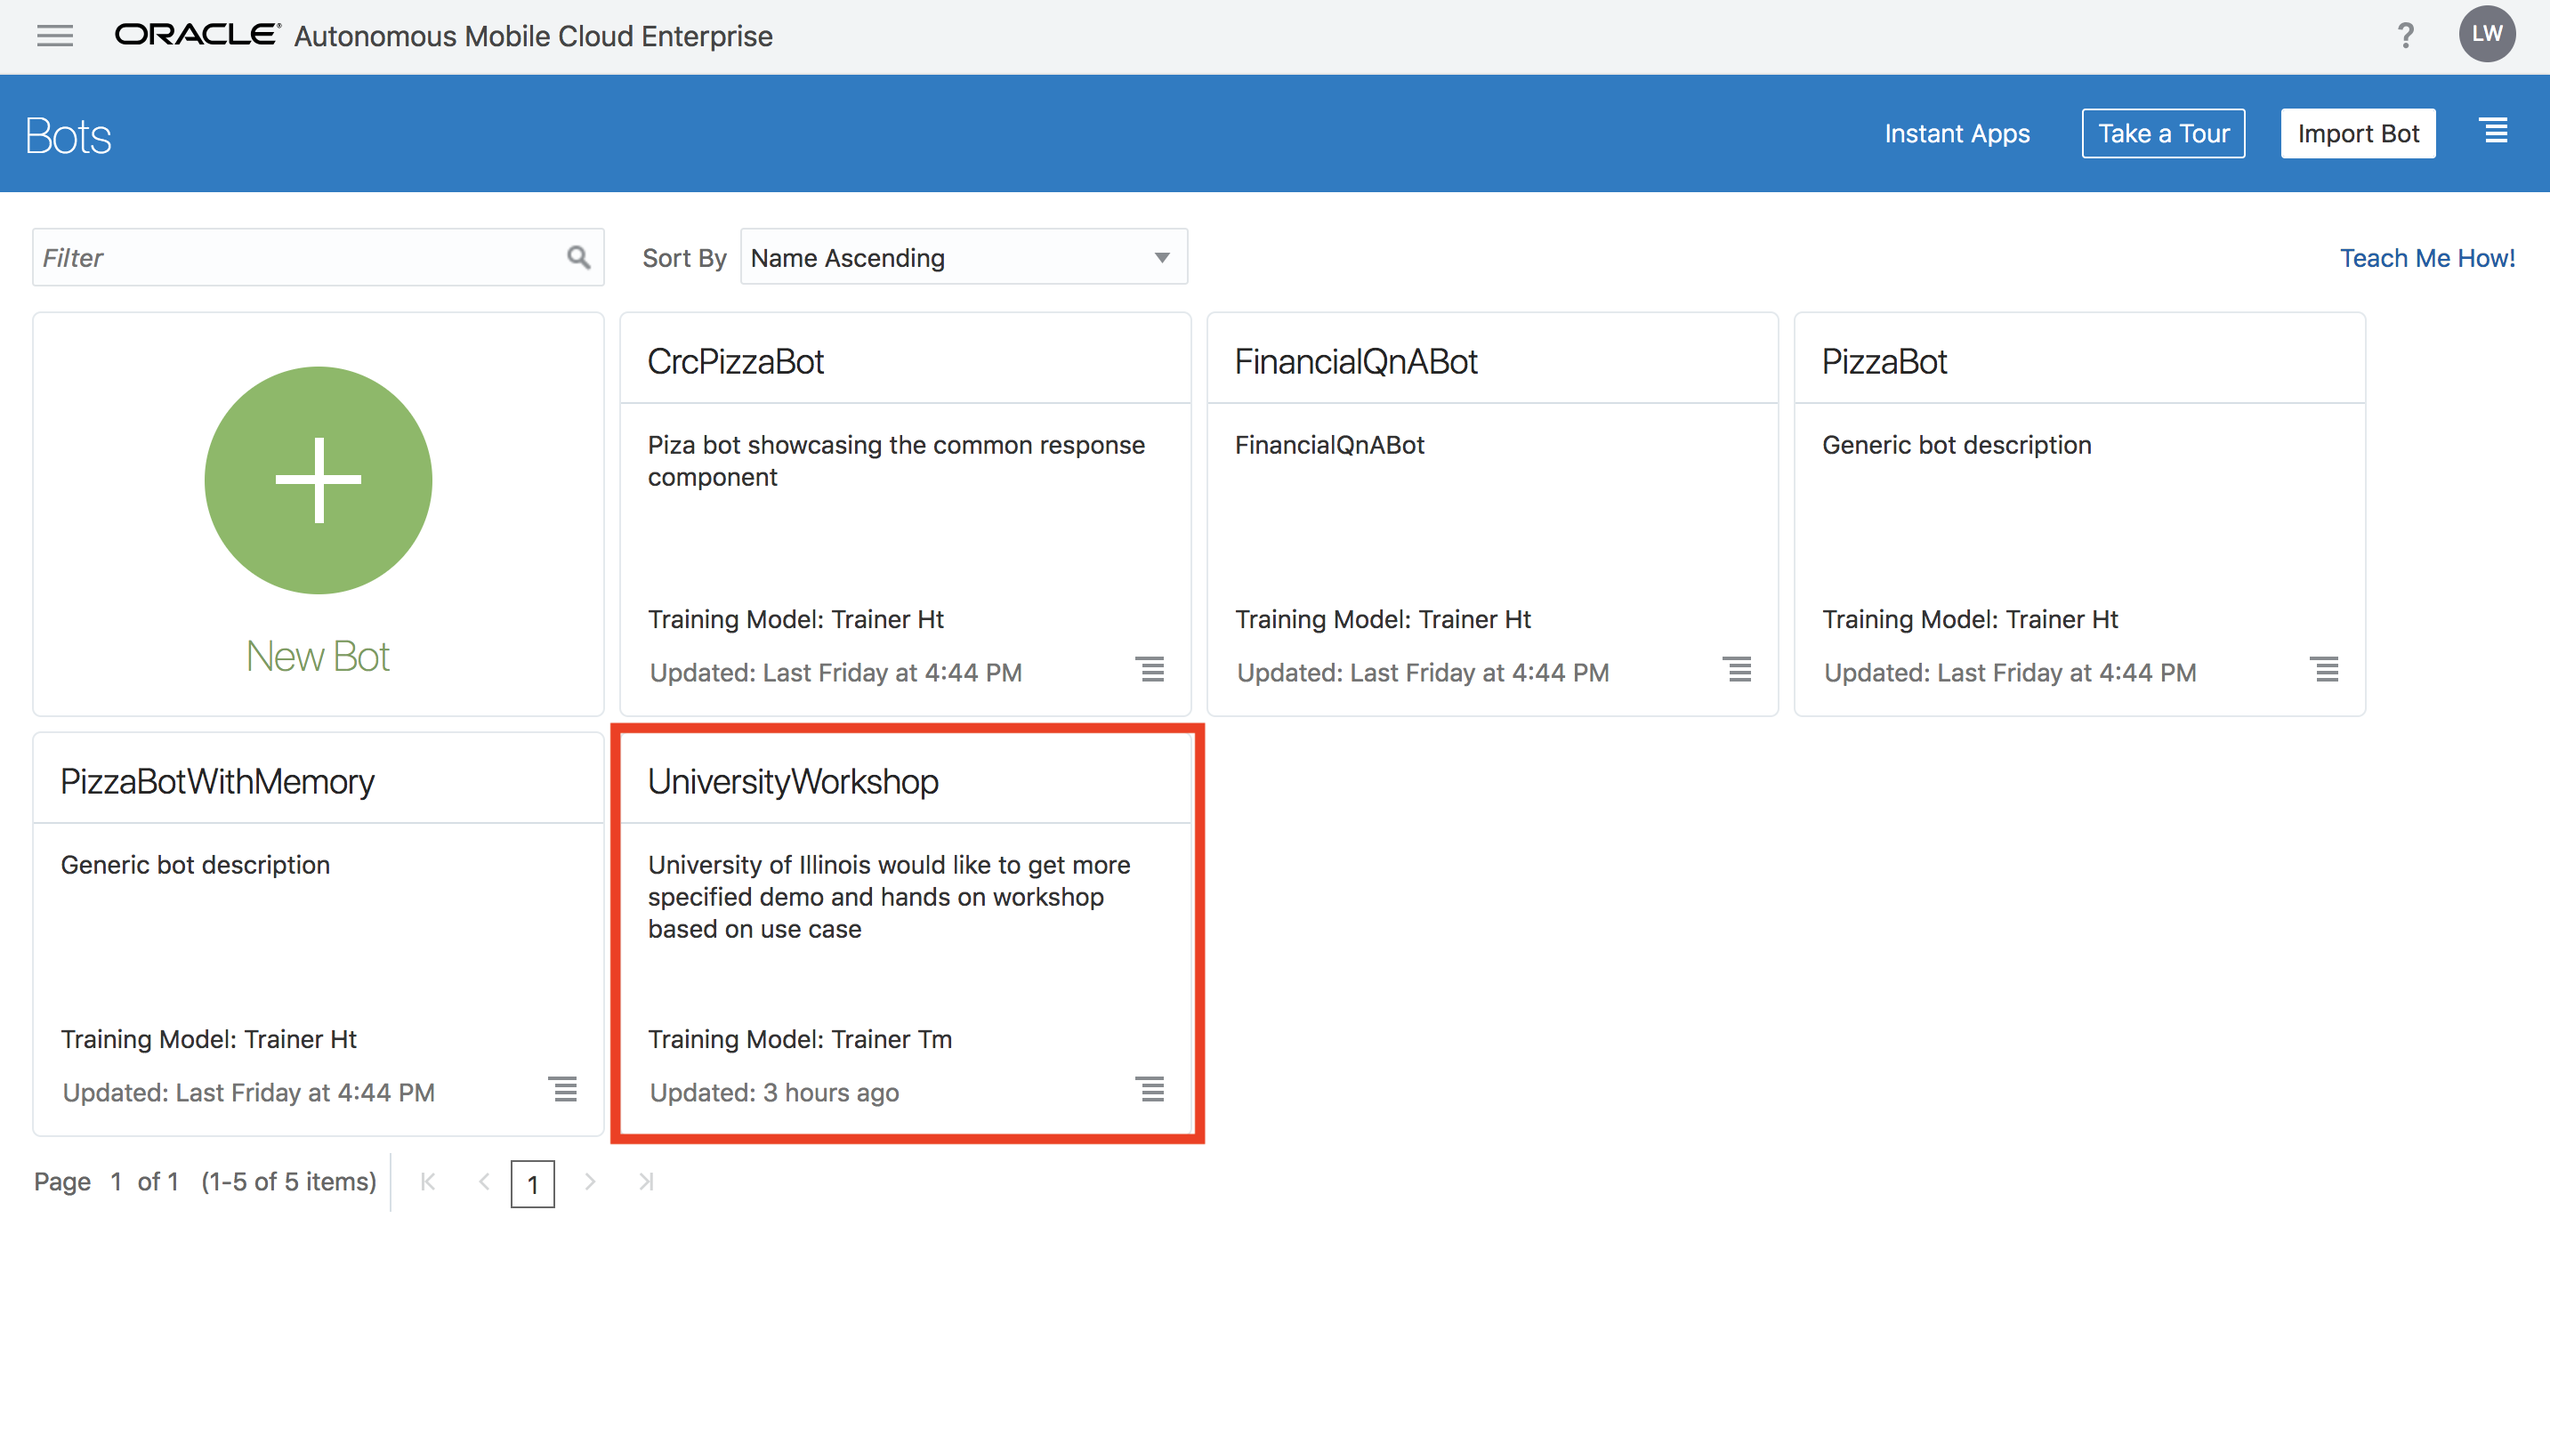
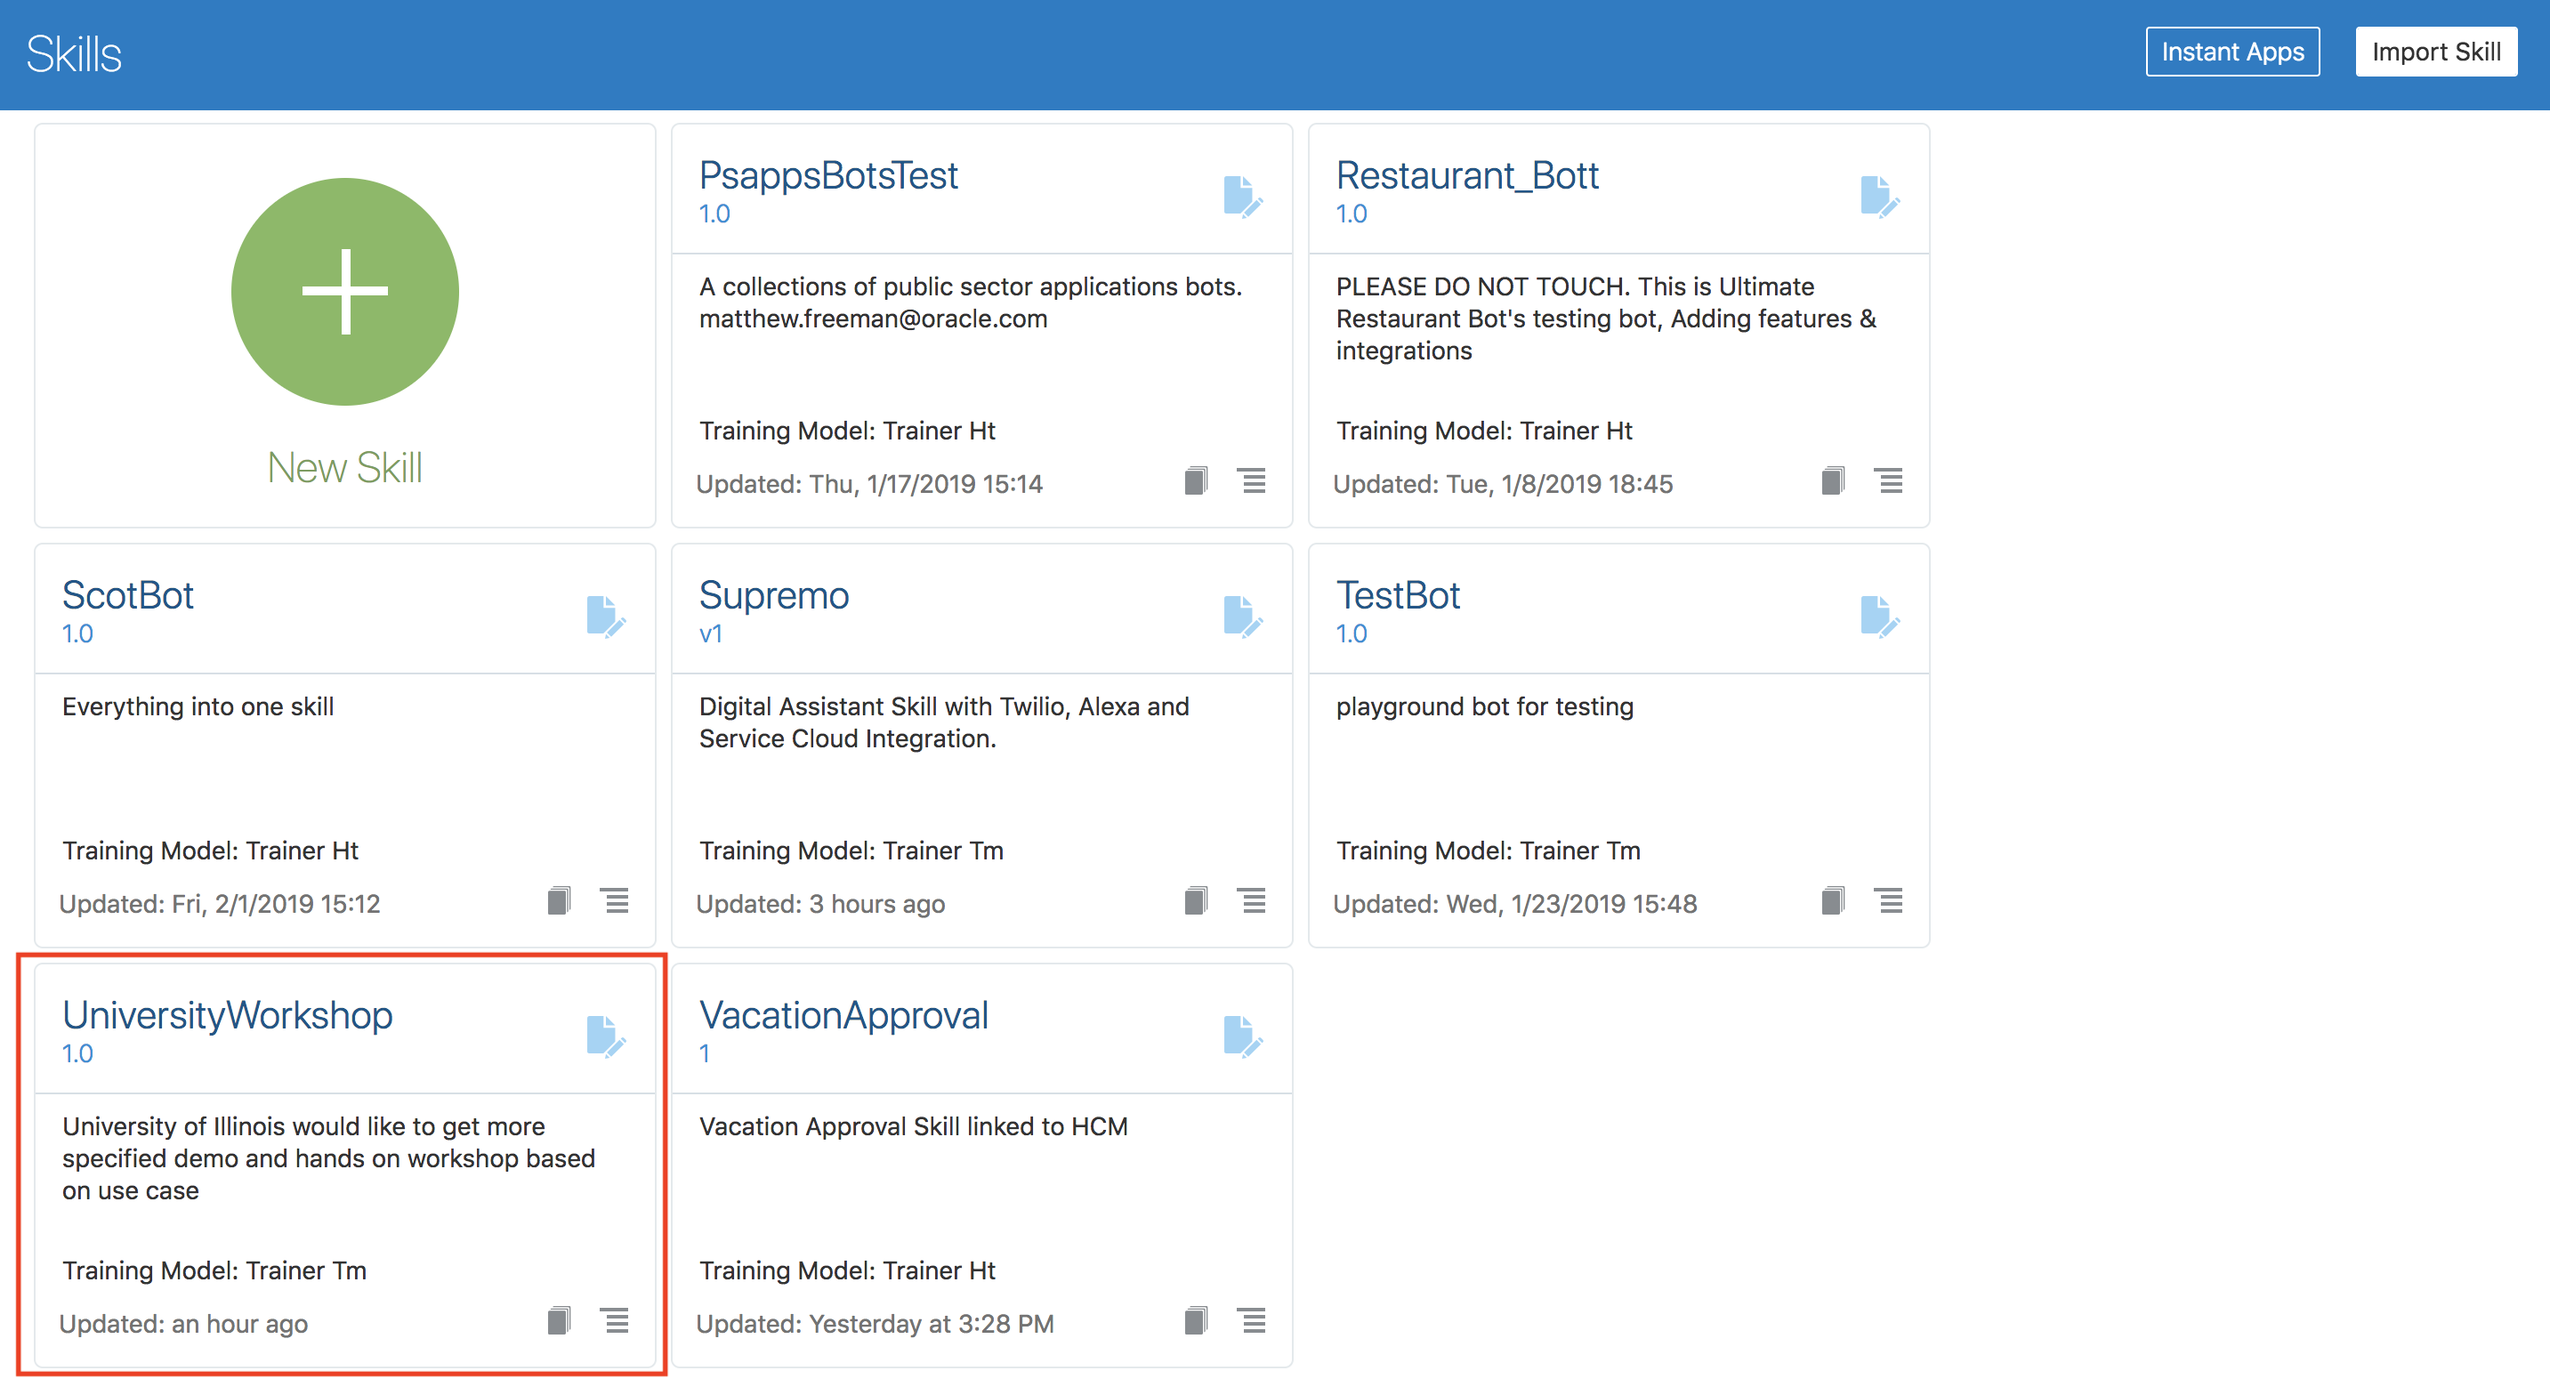
Updafed finished for Lab200.md

diff --git a/Lab200.md b/Lab200.md
@@ -1,12 +1,11 @@
 # Lab 200: Enhance Gen University Bot
 ## Introduction
-This lab will dive into the details of development of the bot. We will learn about Intent & Entity feature of Bots, create instant app for login, set up Backends & APIs for bot and lastly add dialog flows, this will make Gen University Bot more interactive.
+This lab will dive into the details of development of the skill. We will learn about Intent & Entity feature of Bots, create instant app for login, set up APIs for skill and lastly add dialog flows, this will make Gen University Bot more interactive.
 
 ## Objectives
-- Learn about Intent & Entities feature of AMCes
-- Add an instant app of login to the bot interaction
-- Set Up Mobile Backend & APIs for bot
-- Create & Configure backend service for the chatbot
+- Learn about Intent & Entities feature of ODA Skill
+- Add an instant app of login to the skill interaction
+- Set Up Custom REST APIs for skill
 - Add interactive dialog flow code.
 
 ## Required Artifacts
@@ -19,26 +18,26 @@ This lab will dive into the details of development of the bot. We will learn abo
 
 ![](./images/200/1.png)
 
-- On the first screen, you can define intents for your chatbot. Intents illustrate your use case by describing the various actions that your bot helps its users complete.
-- There are 3 intents that came with the import file: Location, StartChat, and StopChat. Under each intent tab, there are utterances which are the sample phrases or sentences that you expect the user to say for that specific intent so that your bot will match those phrases to the intent. 
-- While intents map words and phrases to a specific action, entities add context to the intent itself. They help to describe the intent more fully and enable your bot to complete a user request. The Location intent, for example, describes a user request, but only in general terms.
+- On the first screen, you can define intents for your skill. Intents illustrate your use case by describing the various actions that your skill helps its users complete.
+- There are 3 intents that came with the import file: Location, StartChat, and StopChat. Under each intent tab, there are utterances which are the sample phrases or sentences that you expect the user to say for that specific intent so that your skill will match those phrases to the intent. 
+- While intents map words and phrases to a specific action, entities add context to the intent itself. They help to describe the intent more fully and enable your skill to complete a user request. The Location intent, for example, describes a user request, but only in general terms.
 
 ![](./images/200/2.png)
 
-### Step 2: Add an instant app of login to the bot interaction
+### Step 2: Add an instant app of login to the skill interaction
 - Note: With this Gen University chatbot, we are using Oracle HCM service, so if you want to test login module functionality, for HCM login username and password, you can send request from our end, then you may get a temporary account.
 
-- Natural language conversations are, by their very nature, free-flowing. But they may not always be the best way for your bot to collect information from its users. For example, some situations, like sign in in some sites, require users to enter specific information (and enter it precisely). To help your bot’s users enter this type of information easily, your bot can call an instant app, which provides forms with labels, options, choices, check boxes, data fields, and other UI elements.
+- Natural language conversations are, by their very nature, free-flowing. But they may not always be the best way for your skill to collect information from its users. For example, some situations, like sign in in some sites, require users to enter specific information (and enter it precisely). To help your skill's users enter this type of information easily, your skill can call an instant app, which provides forms with labels, options, choices, check boxes, data fields, and other UI elements.
 
 - Click on **Instant Apps** next to Validate button on top right of the screen. (This is a pop-up that might be blocked by your browser; unblock it to continue.)
 
 ![](./images/200/4.png)
 
-- This will take you to a dashboard for Instant Apps. Here, we will click on **New Instant App**. 
+- This will take you to a dashboard for Instant Apps. Here, we will click on **Add Instant App**. 
 
 ![](./images/200/5.png)
 
-- As you can see, there are many templates you can choose from to help you build an instant app. For today, we will import a pre-built one. Click on **Import an Instant App** on the top left of the screen and drag and drop **HCM-Login-Tests.json** from the folder you have cloned from github. 
+- As you can see, there are many templates you can choose from to help you build an instant app. For today, we will import a pre-built one. Click on **Import** on the right the screen and drag and drop **HCM-Login-Tests.json** from the folder you have cloned from github. 
 
 ![](./images/200/6.png)
 
@@ -52,101 +51,25 @@ This lab will dive into the details of development of the bot. We will learn abo
 
 - Click on **Save** on upper right of the screen to close
 
-![](./images/200/9.png)
+- To be able to use the instant app we just added, we need to add another state to our flow using `System.Interactive` component. This will be finished in Step 4.
 
-- To be able to use the instant app we just added, we need to add another state to our flow using `System.Interactive` component. This will be finished in Step 5.
+### Step 3: Set Up Custom REST APIs for skill
+- Now, Intents, Entities, and Instant app are ready, we need to create skill custom API services which are supported in our ODA. In order to get or update a student's basic information e.g. email, address, phone. We need to develop a backend service which can get or make the update real-time with Oracle HCM.
 
-### Step 3: Set Up Mobile Backend & APIs for bot
-- Now, Intents, Entities, and Instant app are ready, we need to create bot Backend & its API services which are supported in our AMCe. In order to get or update a student's basic information e.g. email, address, phone. We need to develop a backend service which can get or make the update real-time with Oracle HCM.
-
-- Click on the hamburger menu button on the upper left of the screen, click **Backends**, then click **+ New Backend**.
-
+- Click a function icon and click 'service' button to create service.
 ![](./images/200/10.png)
 
-- Once you click **New Backend** button, fill the **Name** (required) and **Description** (optional), then click **Create**.
+- In pop-up windown, input **Name**, upload **GenUniversityWorkshopBot-1.1.0.tgz** cloned from the github and click 'Create'
+
 ![](./images/200/11.png)
 
-- You will see dashboard for the new backend which you just created.
-![](./images/200/12.png)
-
-- Click **APIs** in the left panel, then click **+ New API**.
-
-![](./images/200/13.png)
-
-- Enter the following information in the prompt:
-  - API Display Name: `universityservice`
-  - API Name: `universityservice`
-  - Short Description: anything you like
-
-- Click on **Create** button, it will pop-up a tour, you can watch the video or click **Got it**.  
-  (Note: for this bot, we have developed our own custom component code which you can find from github cloned resources, so use the given API name.)
-
-:: Before clicking **Create** button
-![](./images/200/14.png)
-
-:: After clicking **Create** button
-![](./images/200/15.png)
-
-- After you click **Got it**, it will forward to API portal and show the below webpage
-![](./images/200/16.png)
-
-- Click **Implementation** in the left panel, then click **Upload an implementation archive** and upload **University_Workshop_components.zip** file.
-
-![](./images/200/17.png)
-
-![](./images/200/18.png)
-
-- Once you upload that zip file successfully, then click **Save**
-
-![](./images/200/19.png)
-
-![](./images/200/20.png)
-
-- Select **Endpoints** and click edit icon in the right corner, copy & paste all content from the file **university.raml** which can be found in artifacts, then click edit icon again and save it, finally you will see two endponts has been configured.
-  (Note: Once you paste the content, it takes a little bit time.)
-
-![](./images/200/21.png)
-
-![](./images/200/22.png)
-
-- Select **Security**, disable **Login Required**, then click **Save**
-
-![](./images/200/23.png)
-
-- Now, we can test your API and see whether it is working or not.
-  - Click **Test** button on the right top corner
-  ![](./images/200/24.png)
-
-  - Choose below image options, then click **Test Endpoint** and copy the url which can be used in the Backend configuration side.
-  ![](./images/200/25.png)
-
-  - If it is successful, you will get **Test Response Status: 200** and its response body.
-  ![](./images/200/26.png)
-  ![](./images/200/27.png)
-
-- Go back to **Backends** by clicking hamburger menu button on top left corner of the screen
-![](./images/200/28.png)
-
-- Double clicking **UniversityWorkshop_Backend1.0**, it will forward to its setting page
-![](./images/200/29.png)
-
-- Click **Settings** and Copy **Backend ID** & **Anonymous Key** which will be used to create service for the chatbot
-  (Note: make sure you copy the entire value for the anonymous key.)
-![](./images/200/30.png)
-
-### Step 4: Create & Configure backend service for the chatbot
-- Click on the hamburger menu button on the upper left of the screen, click **Bots**, Select **UniversityWorkshop** bot, click the icon including 'f', then click **Service** green button
-![](./images/200/31.png)
-
-- Fill all required information, paste **backend ID**, **anonymous key** and **metadata url** from above copied, then you will get successful message.
-![](./images/200/32.png)
-
-:: Successful messages
+- Once you upload the tgz file, it will have the upload message and show the 'Awaiting Deploying' messages
 ![](./images/200/33.png)
+
 - Now, you will be able to see 3 APIs under **WorkshopHCMWebService**
 ![](./images/200/34.png)
 
-### Step 5: Add interactive dialog flow code
+### Step 4: Add interactive dialog flow code
 - Now, let us integrate the workflow of Gen University Bot.
 - Copy & Paste below block code under '#HERE - Copy & Paste HCM initial variables below'
 ![](./images/200/35.png)
@@ -191,7 +114,6 @@ This lab will dive into the details of development of the bot. We will learn abo
     component: "System.Intent"
     properties:
       variable: "iResult"
-      confidenceThreshold: 0.4
     transitions:
       actions:
         StartChat: "HelloChat"
@@ -288,8 +210,8 @@ This lab will dive into the details of development of the bot. We will learn abo
       testu: "${testu}"
       testp: "${testp}"
     transitions:
-      actions:
-        cancel: "Intent"
+      #actions:
+        #cancel: "Intent"
       next: "confirmGet"
   confirmGet:
     component: "System.List"
@@ -376,9 +298,7 @@ This lab will dive into the details of development of the bot. We will learn abo
 ```
 - Click **Validate** button to check if there are any errors in the YAML code
 ![](./images/200/40.png)
-- Now, your test bot is ready, you can test the workflow right now by clicking **play** button, and follow steps:
-![](./images/200/41.png)
-
+- Now, your test skill is ready, you can test the workflow by clicking **play** button, and follow steps:
 ![](./images/200/42.png)
 
 ![](./images/200/43.png)
